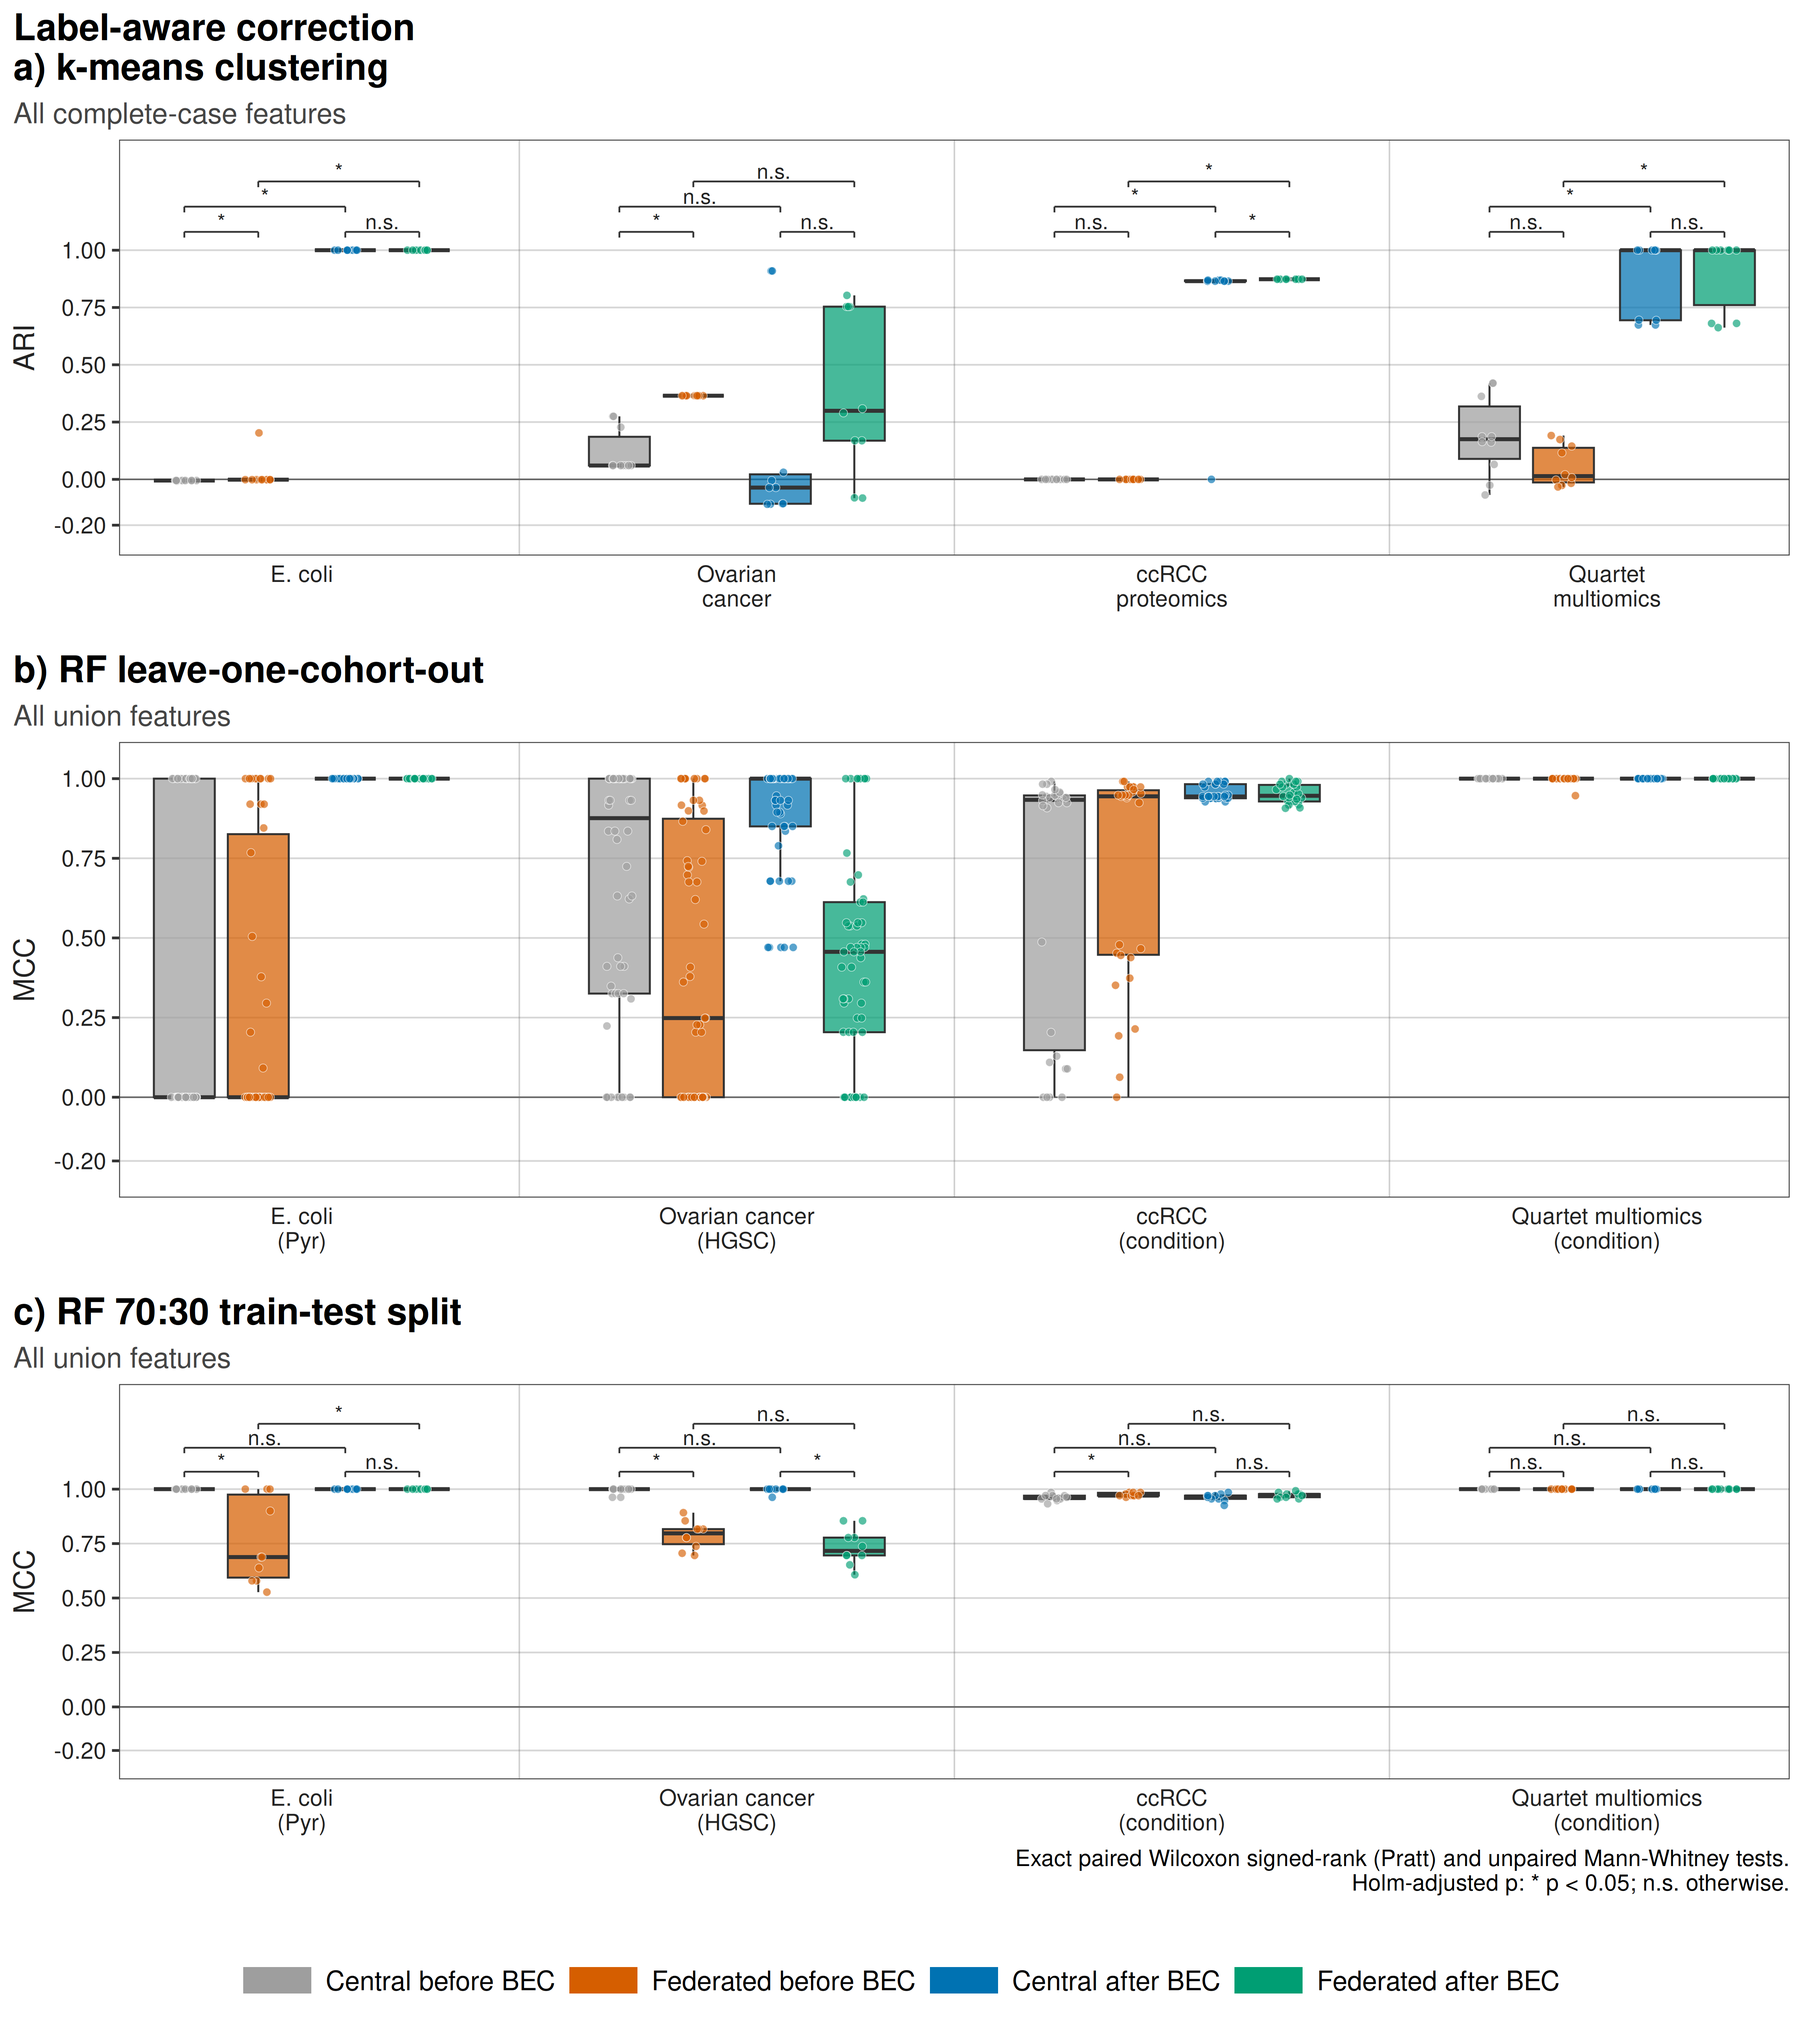
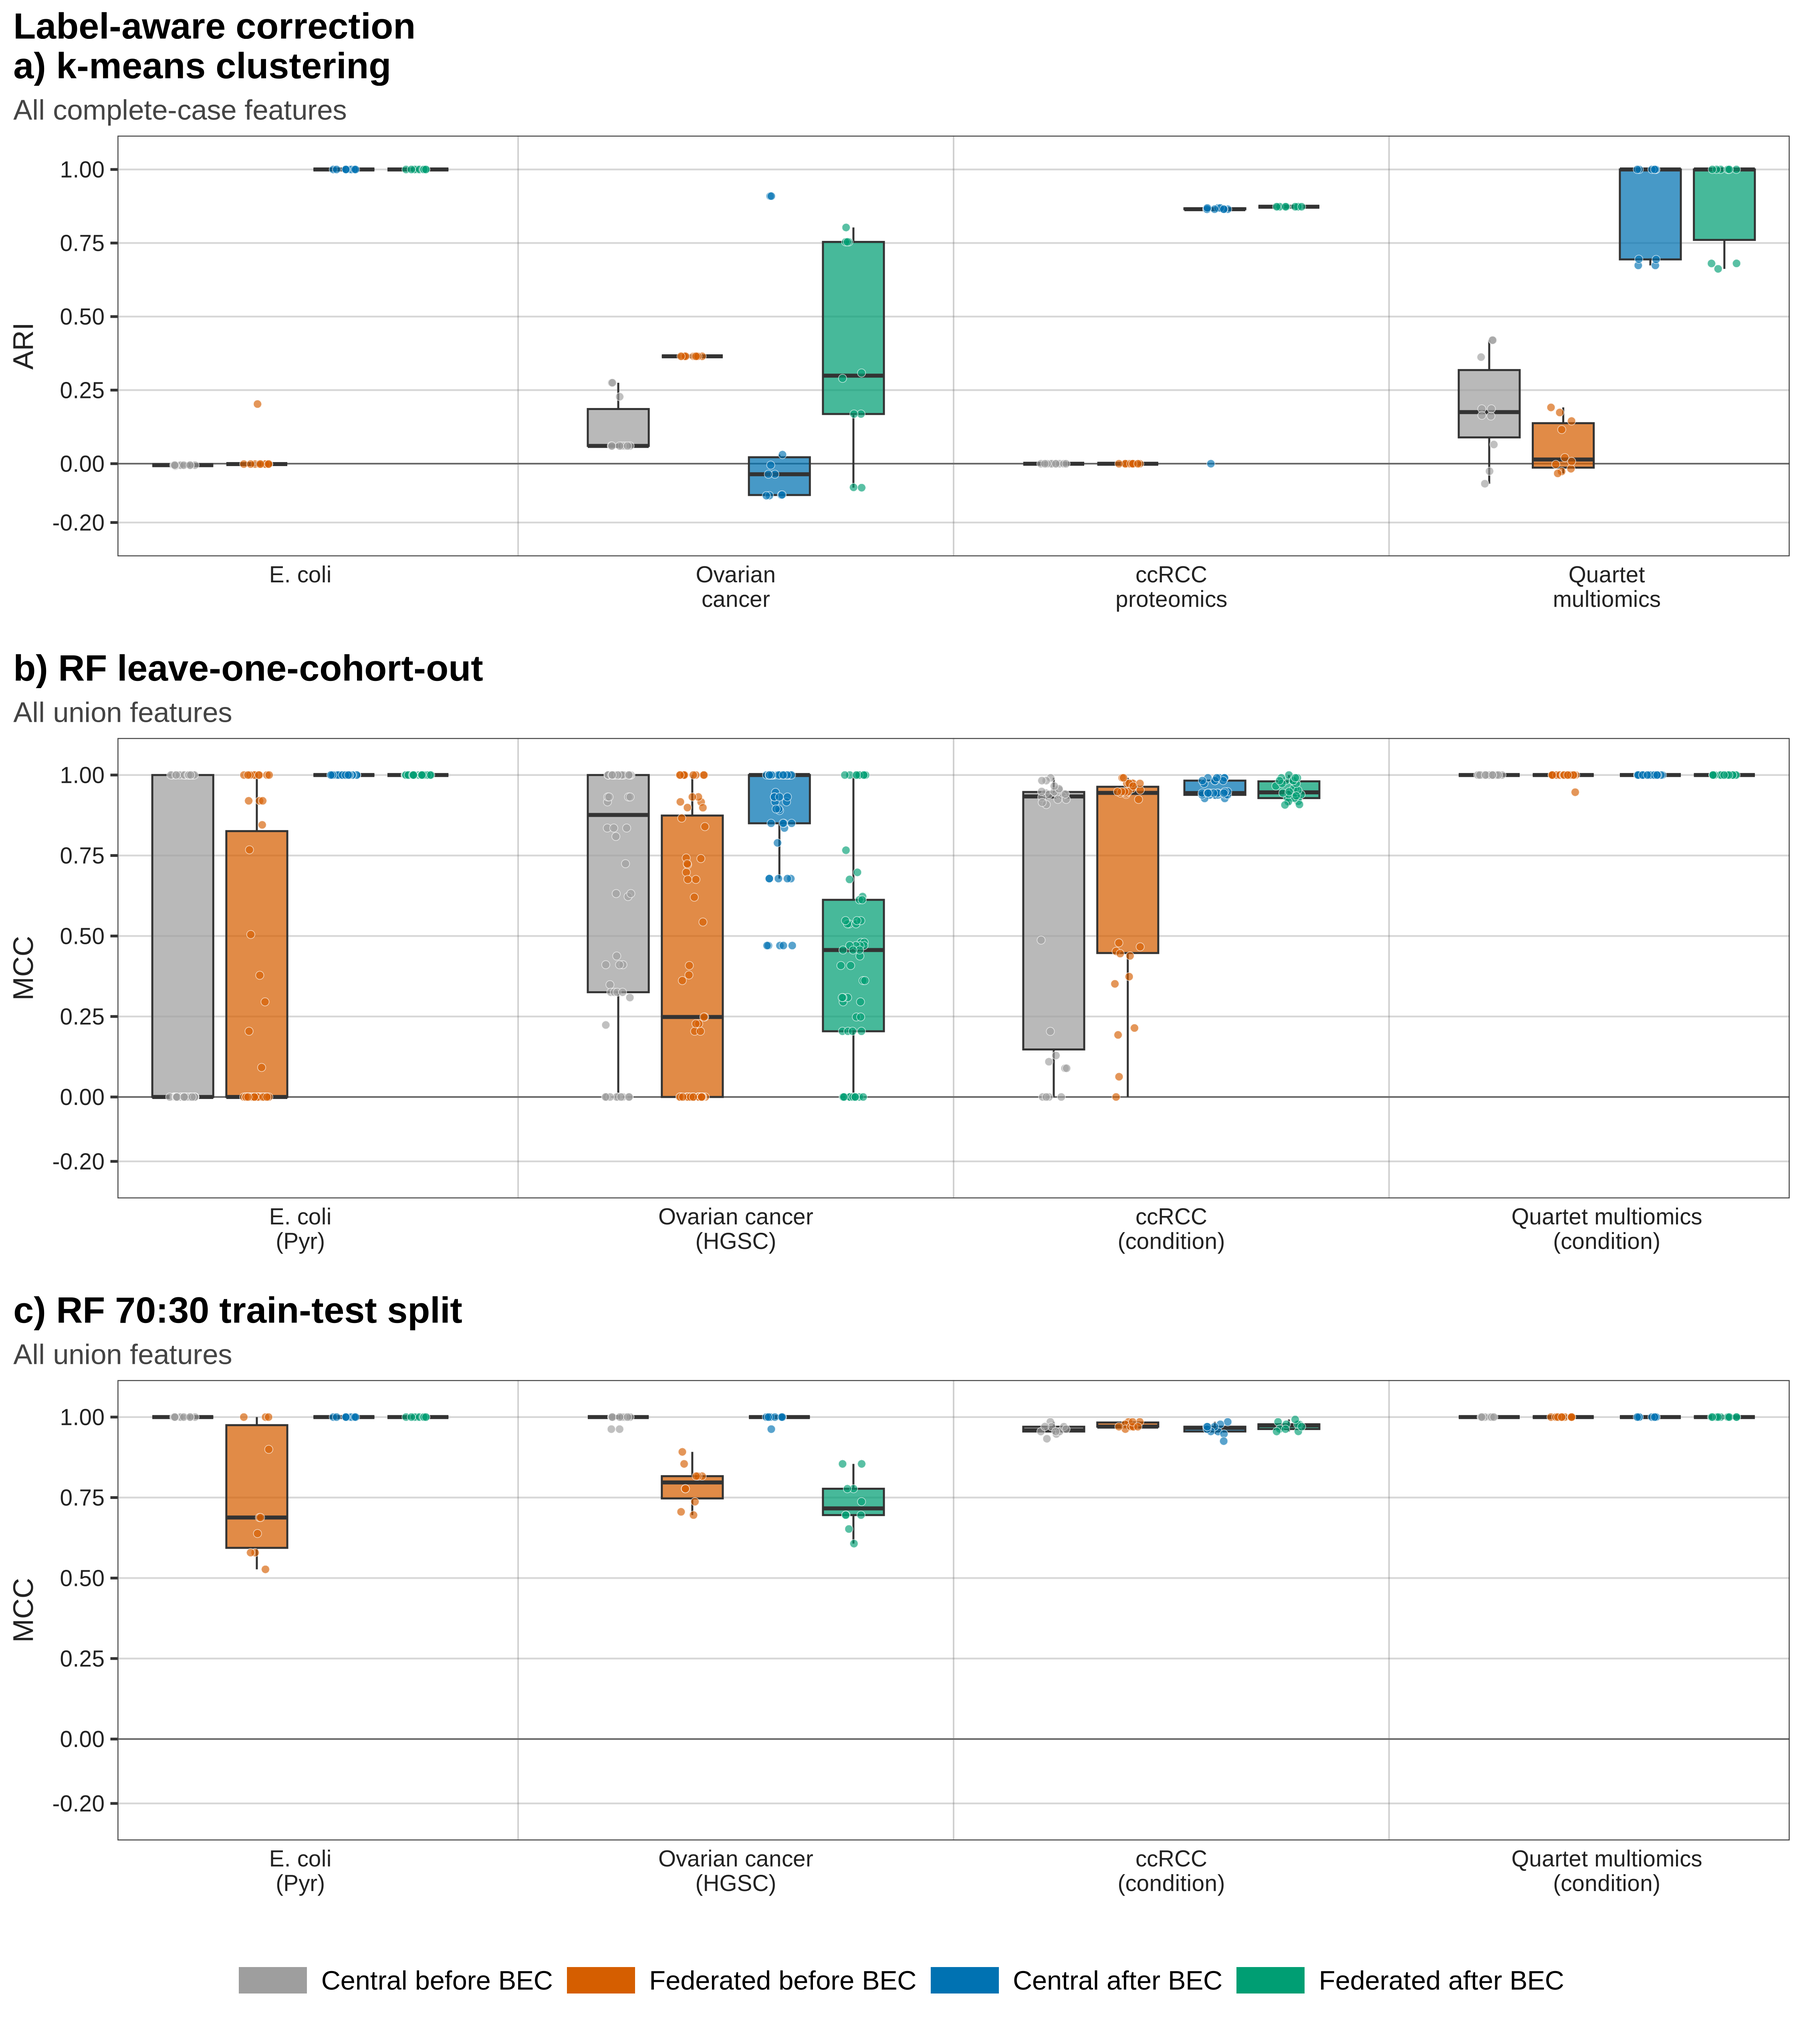
statistics and no statistics plot being created now for fig4

diff --git a/docs/reproduce.md b/docs/reproduce.md
@@ -473,15 +473,19 @@ done
 ```
 
 Outputs under `figures/`: `figure3_<arm>.png`, `figure4_<arm>.png`,
-`figureS5_<arm>.png` and `figureS7_<arm>.png`. Figures 3 and S5 also
-write matching `_variance.tsv` files with median variance fractions and feature
-counts. Figure 4 writes a matching `_statistics.tsv` covering Figures 4 and S7.
+`figure4_<arm>_statistics.png`, `figureS5_<arm>.png` and `figureS7_<arm>.png`.
+Figure 4 is drawn twice: `figure4_<arm>.png` without statistics and
+`figure4_<arm>_statistics.png` with significance brackets and the test caption.
+Figures 3 and S5 also write matching `_variance.tsv` files with median variance
+fractions and feature counts. Figure 4 writes a matching `_statistics.tsv`
+covering Figures 4 and S7.
 
 #### Scenario comparisons in Figure 4 and S7
 
 Both correction arms use 10 runs per scenario (Figure 4a: ARI;
 Figure 4c: pooled train/test MCC; Figure S7: held-out-cohort MCC).
-These panels show significance brackets; Figure 4b is an overview.
+These panels show significance brackets in `figure4_<arm>_statistics.png` and
+`figureS7_<arm>.png`; Figure 4b is an overview.
 
 - C1/C2: before versus after correction within each learner; exact two-sided
   Wilcoxon signed-rank tests paired by seed, with Pratt's method for zeros.
@@ -505,7 +509,8 @@ under `evaluation_clusterization_after_correction/real_datasets/`; the RF report
 Override paths with `FIGURE4_ARI_TABLE`, `FIGURE4_RF_REPORT` and `FIGURE4_OUTPUT`.
 
 Set `FIGURE4_OUTPUT` to a path ending in `.svg` to export Figure 4 as SVG.
-PNG is the default; a path without an extension gets `.png`. For example:
+PNG is the default; a path without an extension gets `.png`. The annotated
+variant uses the same path with a `_statistics` suffix. For example:
 
 ```bash
 CORRECTION_ARM=label_aware FIGURE4_OUTPUT=figures/figure4_label_aware.svg \

diff --git a/evaluation_clusterization_after_correction/real_datasets/README.md b/evaluation_clusterization_after_correction/real_datasets/README.md
@@ -118,7 +118,8 @@ scikit-learn and does not recover actual FeatureCloud message arrival order.
 
 [`evaluation/aggregate_figure4.R`](../../evaluation/aggregate_figure4.R)
 reads the aggregate clustering tables and RF reports and writes
-`figures/figure4_<arm>.png`, a matching `_statistics.tsv` and per-cohort LOCO
+`figures/figure4_<arm>.png` without statistics, `figures/figure4_<arm>_statistics.png`
+with significance brackets, a matching `_statistics.tsv` and per-cohort LOCO
 comparisons in `figures/figureS7_<arm>.png`.
 `CORRECTION_ARM` chooses the arm. `FIGURE4_ARI_TABLE`, `FIGURE4_RF_REPORT` and
 `FIGURE4_OUTPUT` override paths relative to the repository root or absolutely.
